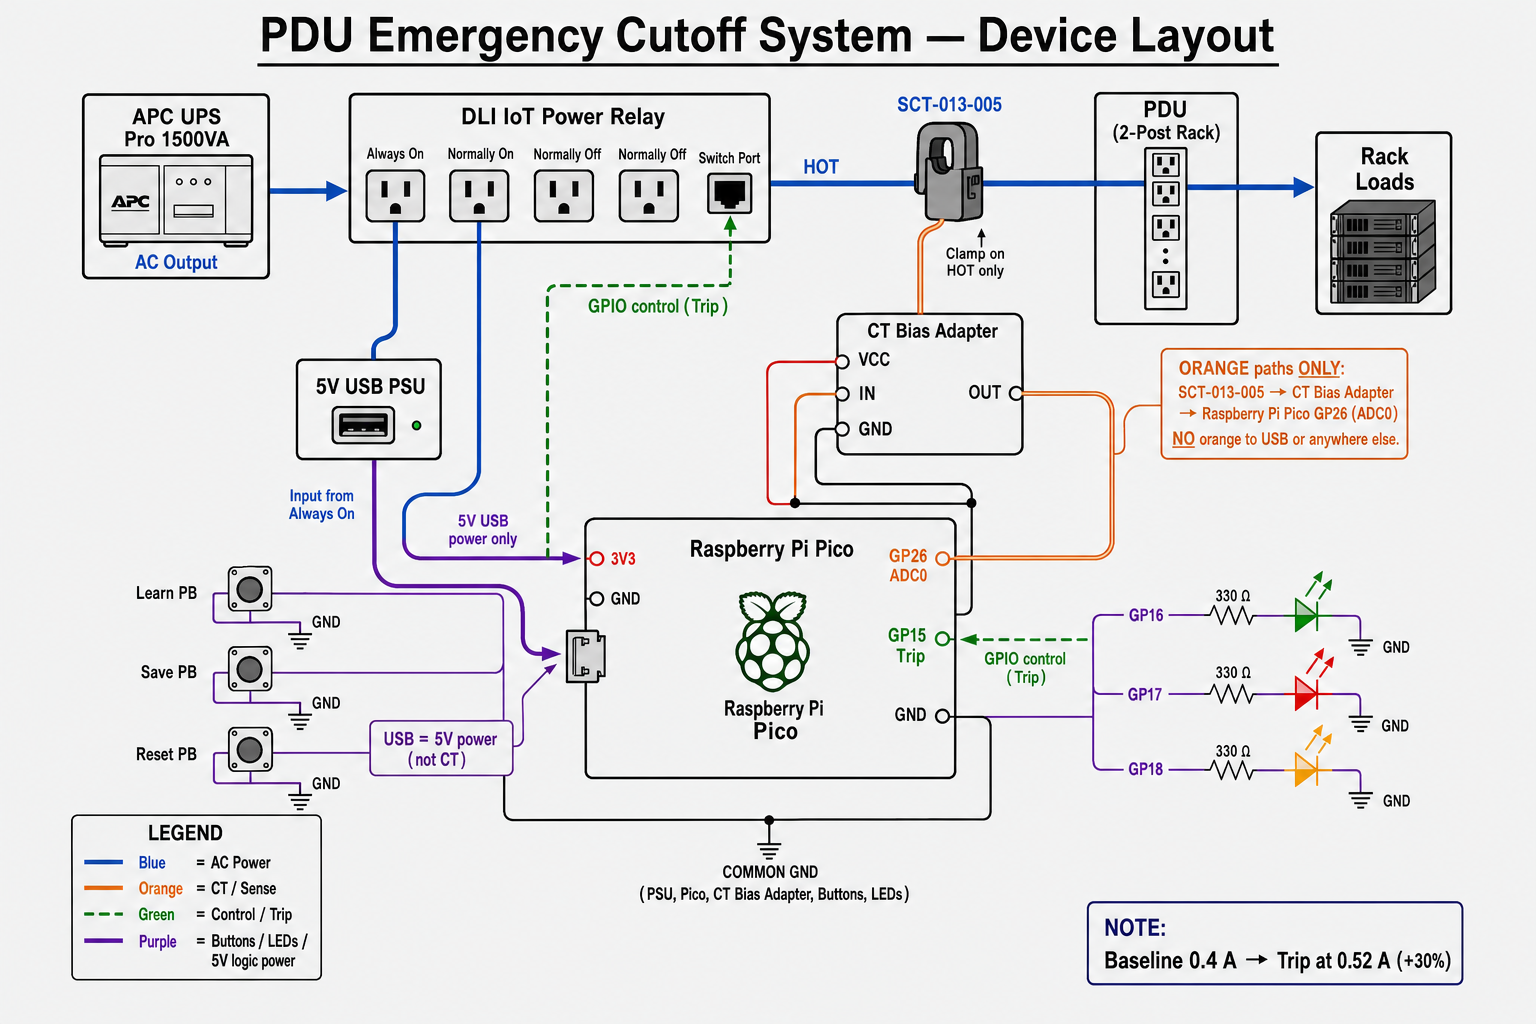
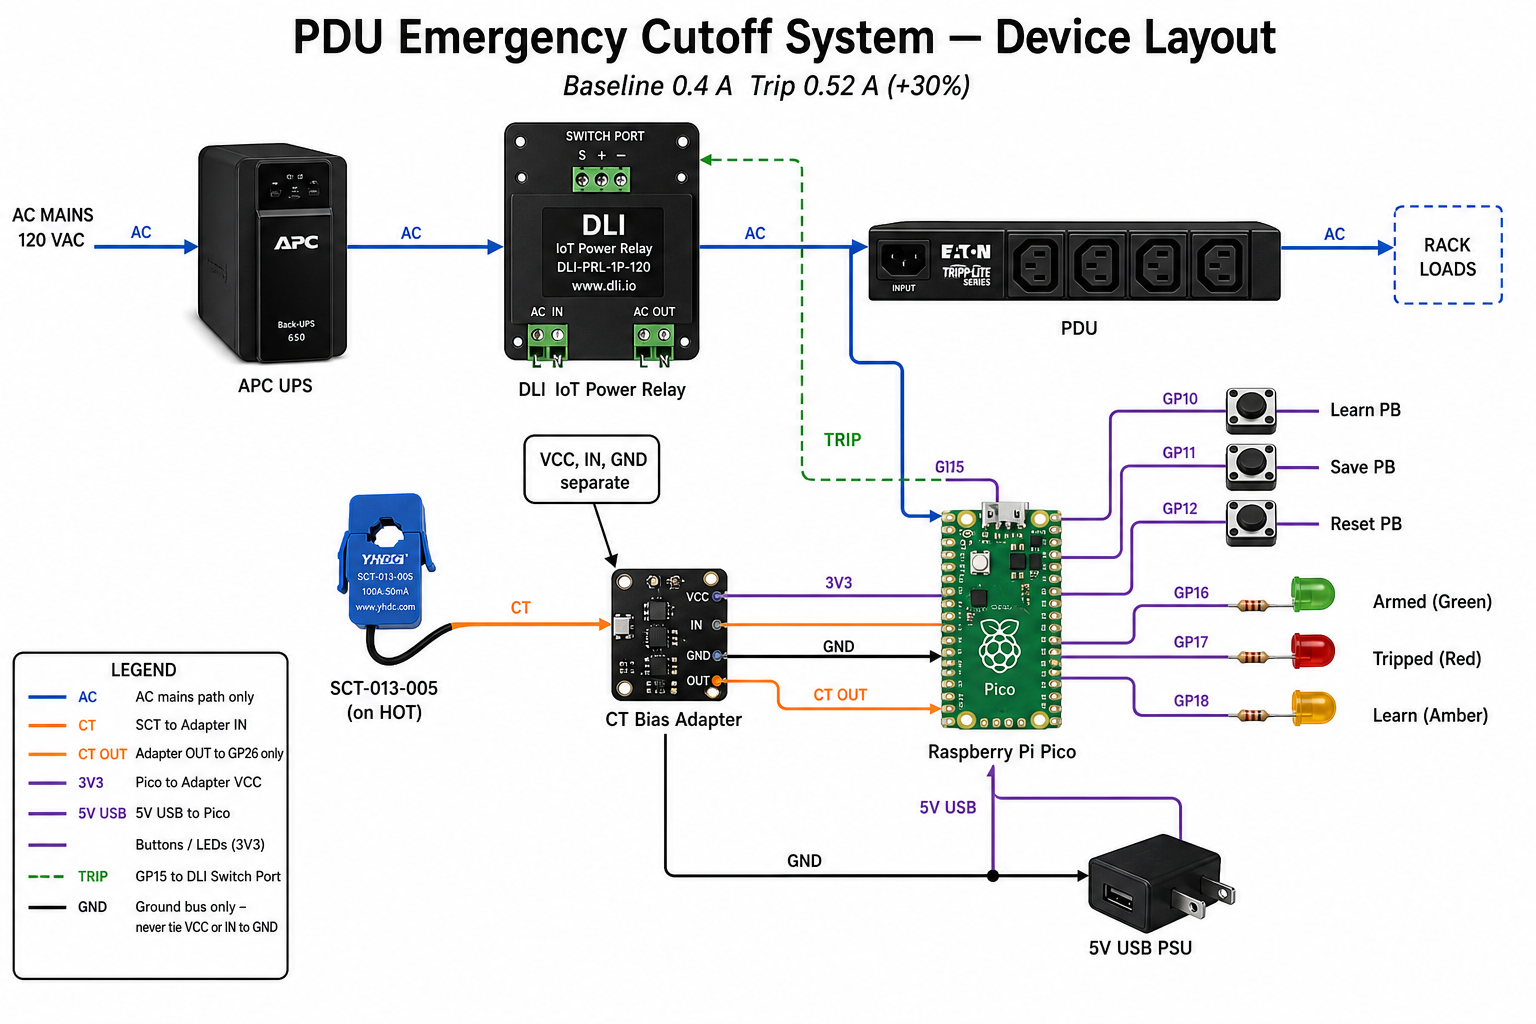
Clarify device layout wiring and add CT bias adapter docs.
Regenerate device-layout.png with labeled wire colors, add WIRING_COLORS guide, CT bias BOM, and optional layout render script.

Changed region(s): [[0.0, 0.0, 0.9688, 0.9688], [0.9062, 0.5625, 0.9688, 0.5938], [0.0312, 0.9375, 0.0625, 0.9688]]

diff --git a/scripts/render_device_layout.py b/scripts/render_device_layout.py
@@ -1,0 +1,150 @@
+#!/usr/bin/env python3
+"""Render hardware/device-layout.png with unambiguous wire colors."""
+
+from pathlib import Path
+
+from PIL import Image, ImageDraw, ImageFont
+
+ROOT = Path(__file__).resolve().parents[1]
+OUT = ROOT / "hardware" / "device-layout.png"
+
+W, H = 1920, 1080
+BG = (248, 248, 252)
+BLACK = (20, 20, 20)
+BLUE = (30, 90, 200)
+ORANGE = (220, 120, 20)
+PURPLE = (120, 60, 180)
+GREEN = (30, 140, 70)
+GRAY = (90, 90, 90)
+
+# (x1,y1,x2,y2, color, width, label, label_pos)
+WIRES = [
+    # AC - blue
+    (120, 140, 420, 140, BLUE, 5, "AC", (250, 115)),
+    (420, 140, 720, 140, BLUE, 5, "AC", (540, 115)),
+    (720, 140, 720, 220, BLUE, 5, "AC Always On", (730, 175)),
+    (720, 140, 1050, 140, BLUE, 5, "AC Normally On", (850, 115)),
+    (1050, 140, 1280, 140, BLUE, 5, "AC", (1150, 115)),
+    (1280, 140, 1500, 200, BLUE, 5, "AC", (1380, 155)),
+    # CT sense - orange
+    (980, 170, 980, 420, ORANGE, 4, "CT", (990, 300)),
+    (980, 420, 620, 420, ORANGE, 4, "CT IN", (780, 405)),
+    (620, 420, 620, 500, ORANGE, 4, "CT OUT", (630, 460)),
+    (620, 500, 900, 620, ORANGE, 4, "CT OUT -> GP26", (720, 555)),
+    # Pico power - purple
+    (760, 220, 860, 220, PURPLE, 4, "5V USB", (790, 205)),
+    (860, 220, 900, 680, PURPLE, 4, "5V USB", (870, 450)),
+    (900, 680, 620, 360, PURPLE, 4, "3V3", (760, 500)),
+    # Trip - green
+    (900, 700, 720, 280, GREEN, 4, "TRIP GP15", (780, 480)),
+    # GND - black
+    (620, 540, 620, 820, BLACK, 4, "GND", (630, 700)),
+    (900, 760, 620, 820, BLACK, 4, "GND", (760, 800)),
+    (400, 820, 1200, 820, BLACK, 4, "GND bus", (760, 835)),
+    (400, 820, 400, 900, BLACK, 4, "GND", (410, 860)),
+    (500, 820, 500, 900, BLACK, 4, "GND", (510, 860)),
+    (600, 820, 600, 900, BLACK, 4, "GND", (610, 860)),
+    # UI - purple
+    (900, 720, 350, 900, PURPLE, 3, "PB GP10-12", (600, 820)),
+    (900, 740, 1100, 900, PURPLE, 3, "LED GP16-18", (1000, 820)),
+]
+
+BOXES = [
+    (40, 90, 200, 100, "APC UPS\nPro 1500VA"),
+    (400, 90, 200, 100, "DLI IoT\nPower Relay"),
+    (1000, 90, 200, 100, "PDU\n2-Post Rack"),
+    (1420, 160, 180, 90, "Rack\nLoads"),
+    (500, 320, 240, 220, "CT Bias Adapter\nVCC=3V3  IN=CT\nGND  OUT=CT OUT"),
+    (820, 620, 220, 280, "Raspberry Pi\nPico"),
+    (300, 880, 220, 120, "Learn Save\nReset PB"),
+    (1040, 880, 220, 120, "Armed Tripped\nLearn LEDs"),
+    (740, 180, 160, 70, "5V USB PSU"),
+    (930, 120, 120, 50, "SCT-013-005\non HOT"),
+]
+
+
+def load_font(size):
+    for name in ("arial.ttf", "Arial.ttf", "DejaVuSans.ttf"):
+        try:
+            return ImageFont.truetype(name, size)
+        except OSError:
+            continue
+    return ImageFont.load_default()
+
+
+def draw_dashed(draw, x1, y1, x2, y2, color, width=4, dash=12):
+    import math
+
+    length = math.hypot(x2 - x1, y2 - y1)
+    if length == 0:
+        return
+    dx, dy = (x2 - x1) / length, (y2 - y1) / length
+    pos = 0
+    while pos < length:
+        end = min(pos + dash, length)
+        draw.line(
+            (x1 + dx * pos, y1 + dy * pos, x1 + dx * end, y1 + dy * end),
+            fill=color,
+            width=width,
+        )
+        pos += dash * 2
+
+
+def main():
+    img = Image.new("RGB", (W, H), BG)
+    draw = ImageDraw.Draw(img)
+    title_font = load_font(34)
+    box_font = load_font(20)
+    small_font = load_font(18)
+    label_font = load_font(16)
+
+    draw.text(
+        (40, 24),
+        "PDU Emergency Cutoff System — Device Layout (Wire Colors)",
+        fill=BLACK,
+        font=title_font,
+    )
+
+    for x1, y1, x2, y2, color, width, label, (lx, ly) in WIRES:
+        if color == GREEN:
+            draw_dashed(draw, x1, y1, x2, y2, color, width)
+        else:
+            draw.line((x1, y1, x2, y2), fill=color, width=width)
+        draw.text((lx, ly), label, fill=color, font=label_font)
+
+    for x, y, w, h, text in BOXES:
+        draw.rounded_rectangle((x, y, x + w, y + h), radius=12, outline=BLACK, width=2, fill=(255, 255, 255))
+        draw.multiline_text((x + 12, y + 12), text, fill=BLACK, font=box_font, spacing=4)
+
+    # CT adapter terminal callout
+    draw.rounded_rectangle((505, 555, 735, 625), radius=8, outline=ORANGE, width=2, fill=(255, 248, 235))
+    draw.text(
+        (515, 565),
+        "VCC (purple 3V3)  IN (orange CT)  GND (black)  OUT (orange) — separate pins",
+        fill=BLACK,
+        font=small_font,
+    )
+
+    # Legend
+    legend_y = 980
+    items = [
+        (BLUE, "Blue = AC mains"),
+        (ORANGE, "Orange = CT analog (IN and OUT only)"),
+        (PURPLE, "Purple = 3V3, 5V USB, buttons, LEDs"),
+        (BLACK, "Black = GND only"),
+        (GREEN, "Green dashed = Trip GPIO (GP15)"),
+    ]
+    x = 40
+    for color, text in items:
+        draw.rectangle((x, legend_y, x + 28, legend_y + 18), fill=color)
+        draw.text((x + 36, legend_y - 2), text, fill=BLACK, font=small_font)
+        x += 360
+
+    draw.text((40, 1010), "Trip: baseline 0.4 A x 1.30 = 0.52 A", fill=GRAY, font=small_font)
+    OUT.parent.mkdir(parents=True, exist_ok=True)
+    img.save(OUT)
+    print("Wrote", OUT)
+
+
+if __name__ == "__main__":
+    main()

diff --git a/hardware/WIRING_COLORS.md b/hardware/WIRING_COLORS.md
@@ -1,0 +1,29 @@
+# Wire colors — device layout
+
+Authoritative color coding for connections between devices. Use with `device-layout.png`.
+
+| Color | Meaning | Connections |
+|-------|---------|-------------|
+| **Blue** | AC mains | UPS → DLI → PDU → rack loads; DLI Always On → 5 V USB PSU |
+| **Orange** | CT analog sense | SCT-013-005 → CT Bias Adapter **IN**; Adapter **OUT** → Pico **GP26** only |
+| **Purple** | Low-voltage logic | Pico **3V3** → Adapter **VCC**; 5 V USB → Pico USB; buttons → GP10–12; LEDs → GP16–18 |
+| **Black** | Ground only | Common GND: Pico, adapter, buttons, LEDs, DLI switch GND |
+| **Green (dashed)** | Trip control | Pico **GP15** → DLI switch port |
+
+## CT Bias Adapter (do not mix colors on one pin)
+
+| Terminal | Color | From / to |
+|----------|-------|-----------|
+| VCC | Purple | Pico 3V3 |
+| IN | Orange | SCT-013-005 jack |
+| GND | Black | Common GND |
+| OUT | Orange | Pico GP26 (ADC0) |
+
+**Never** tie VCC, IN, and GND together.
+
+## What orange is not
+
+- Not USB
+- Not 3V3
+- Not GND
+- Not trip GPIO

diff --git a/hardware/ctbiasadapter-BOM.md b/hardware/ctbiasadapter-BOM.md
@@ -1,0 +1,28 @@
+# BOM — DIY CT Bias Adapter
+
+For **SCT-013-005** → Raspberry Pi Pico (3.3 V). Voltage-output CT: **no external burden**.
+
+See schematic: [ctbiasadapter-layout.png](ctbiasadapter-layout.png)
+
+| Qty | Item | Spec / notes |
+|-----|------|----------------|
+| 2 | Resistor | 10 kΩ, 1% preferred (matched pair for ~1.65 V mid-bias) |
+| 1 | Capacitor | 10 µF; electrolytic OK (+ to mid-point, − to GND) or ceramic ≥10 µF |
+| 1 | 3.5 mm stereo jack | Female, panel or PCB; mates with SCT-013 plug |
+| 1 | Protoboard / PCB | Small perfboard or solderable breadboard |
+| — | Hookup wire | 3 leads: 3V3, GND, OUT → Pico |
+| 1 | Resistor 1 kΩ (optional) | Series between OUT and GP26 for ADC protection |
+
+## Pico connections (not extra BOM items)
+
+| Adapter | Pico |
+|---------|------|
+| 3V3 / VCC | 3V3 |
+| GND | GND |
+| OUT | GP26 (ADC0) |
+
+## Notes
+
+- Power the divider from Pico **3.3 V only** (not 5 V).
+- Idle OUT should measure ≈ **1.65 V DC** before calibration.
+- CT clamp and Pico are listed on the main system BOM: [docs/BOM.md](../docs/BOM.md).

diff --git a/README.md b/README.md
@@ -8,6 +8,8 @@ Overcurrent protection for a 2-post open IT rack PDU. When PDU input current ris
 
 ![PDU Emergency Cutoff System — device connections](hardware/device-layout.png)
 
+Wire colors: [hardware/WIRING_COLORS.md](hardware/WIRING_COLORS.md) (regenerate PNG: `python scripts/render_device_layout.py`).
+
 ## Hardware
 
 | Device | Role |